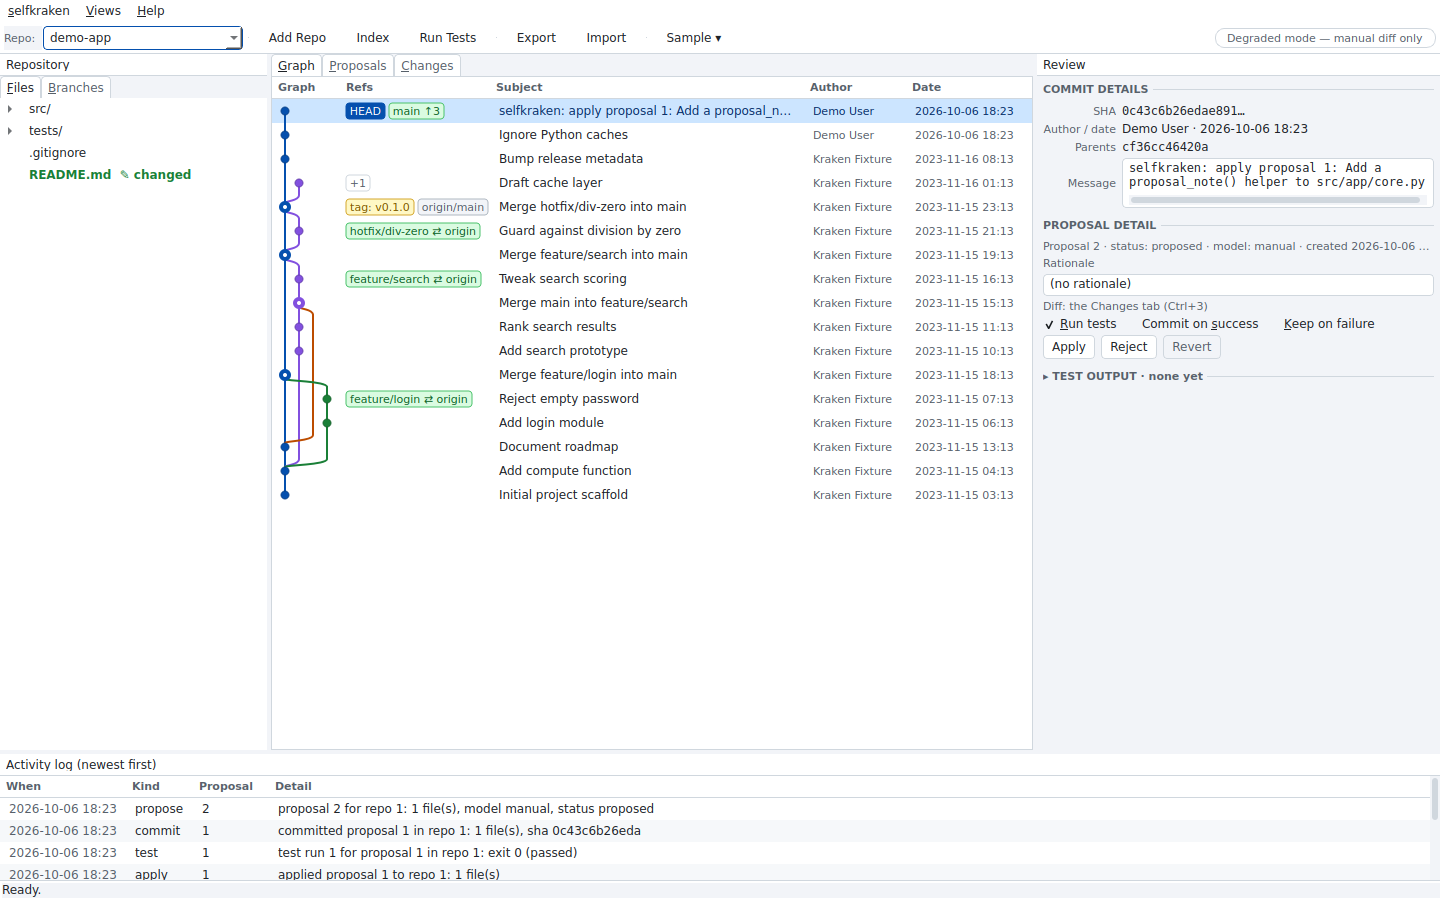
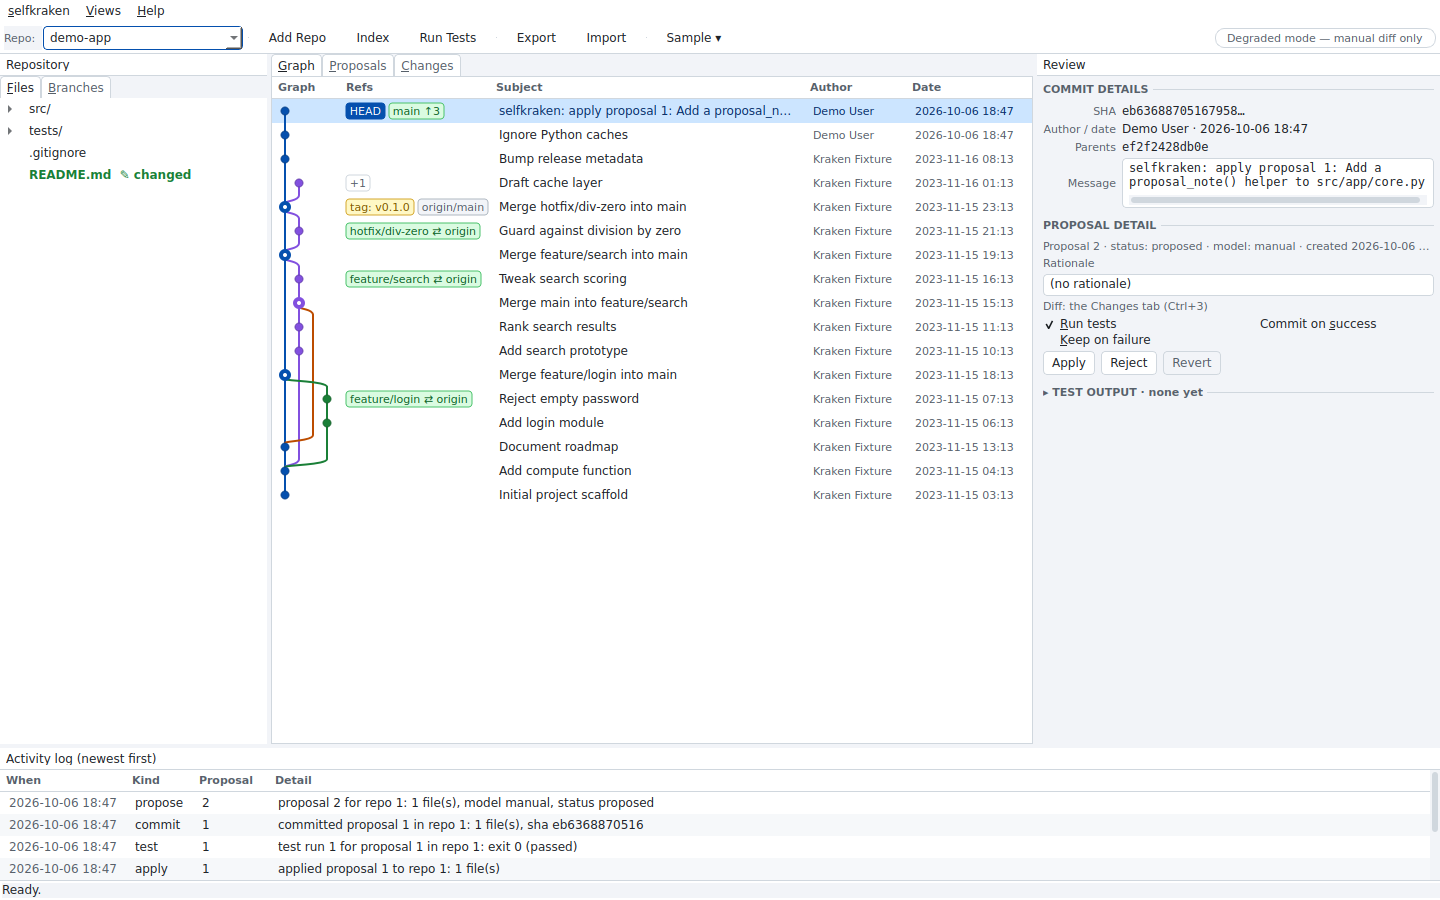
gui: review pane fits its dock, activity log never shows a half row

diff --git a/selfkraken/gui/app.py b/selfkraken/gui/app.py
@@ -118,6 +118,7 @@ from selfkraken.gui.theme import (
     SECTION_HEADER_HEIGHT,
     SPLITTER_HIT,
     SPACE_12,
+    SPACE_2,
     SPACE_4,
     SPACE_6,
     SPACE_8,
@@ -1290,9 +1291,13 @@ class MainWindow(QMainWindow):
         )
         diff_pointer.setAccessibleName("Where the diff is shown")
 
-        option_row = QHBoxLayout()
-        option_row.setContentsMargins(MARGIN_NESTED, MARGIN_NESTED, MARGIN_NESTED, MARGIN_NESTED)
-        option_row.setSpacing(SPACE_8)
+        # Two columns, not one row: three checkboxes side by side need ~336px,
+        # which is wider than the review dock at 1024px and clipped "Keep on
+        # failure" to "Keep on failur".  Two columns stay compact and always fit.
+        option_grid = QGridLayout()
+        option_grid.setContentsMargins(MARGIN_NESTED, MARGIN_NESTED, MARGIN_NESTED, MARGIN_NESTED)
+        option_grid.setHorizontalSpacing(SPACE_8)
+        option_grid.setVerticalSpacing(SPACE_2)
         self.tests_check = QCheckBox("&Run tests")
         self.tests_check.setChecked(True)
         self.tests_check.setToolTip(
@@ -1307,10 +1312,13 @@ class MainWindow(QMainWindow):
             "Leave the change in the working tree even when tests fail "
             "(no automatic rollback)"
         )
-        for box in (self.tests_check, self.commit_check, self.keep_check):
+        for position, box in enumerate(
+            (self.tests_check, self.commit_check, self.keep_check)
+        ):
             box.setAccessibleName(box.text().replace("&", ""))
-            option_row.addWidget(box)
-        option_row.addStretch(1)
+            option_grid.addWidget(box, position // 2, position % 2)
+        option_grid.setColumnStretch(0, 1)
+        option_grid.setColumnStretch(1, 1)
 
         button_row = QHBoxLayout()
         button_row.setContentsMargins(MARGIN_NESTED, MARGIN_NESTED, MARGIN_NESTED, MARGIN_NESTED)
@@ -1343,7 +1351,7 @@ class MainWindow(QMainWindow):
         detail_layout.addWidget(rationale_caption)
         detail_layout.addWidget(self.rationale_edit)
         detail_layout.addWidget(diff_pointer)
-        detail_layout.addLayout(option_row)
+        detail_layout.addLayout(option_grid)
         detail_layout.addLayout(button_row)
         # no stretch inside: with the diff next door this section is exactly as
         # tall as its own content, so no gap opens between meta and rationale
@@ -1714,29 +1722,43 @@ class MainWindow(QMainWindow):
     def _fit_log_dock(self, force: bool = False) -> None:
         """No dead band and no half row: the dock is exactly N whole rows tall.
 
-        The height is title + header + chrome + ``rows * row_height``, so the
-        last visible row always ends at the dock's edge — a capped pixel height
-        used to cut the bottom row in half.  Capped at ACTIVITY_LOG_HEIGHT by
-        dropping *whole* rows, floored at one row (then it scrolls), and left
-        alone once the user has dragged the splitter themselves.  ``force`` is
-        the one shot right after the window is mapped: before that the dock
-        reports its old height and a fit computed then never gets applied.
+        The overhead (dock title, frame, margins, the table's own header) is
+        **measured** from the widgets — ``dock.height() - viewport.height()`` is
+        every pixel that is not a log row — because the token-based estimate was
+        ~15px too generous and left the bottom row sliced in half.  With the real
+        overhead the height is always ``overhead + rows * row_height``, so the
+        last visible row ends exactly at the dock's edge; the cap drops *whole*
+        rows, never a few pixels of one, and the scrollbar steps by a row.
+
+        Left alone once the user has dragged the splitter themselves; ``force``
+        is the one shot right after the window is mapped, before which the dock
+        reports a height that was never laid out.
         """
-        row_height = self.log_table.verticalHeader().defaultSectionSize()
-        header = self.log_table.horizontalHeader().sizeHint().height()
-        chrome = header + 2 * MARGIN_PANEL + DOCK_TITLE_HEIGHT + SPLITTER_HIT
+        table = self.log_table
+        row_height = table.verticalHeader().defaultSectionSize()
+        if row_height <= 0:  # pragma: no cover - defensive
+            return
+        header = table.horizontalHeader().sizeHint().height()
+        dock_height = self.bottom_dock.height()
+        viewport_height = table.viewport().height()
+        if dock_height > 0 and viewport_height > 0 and dock_height > viewport_height:
+            overhead = dock_height - viewport_height
+        else:
+            # not laid out yet: start from the design tokens, the forced call
+            # after showEvent replaces this with the measured number
+            overhead = header + 2 * MARGIN_PANEL + DOCK_TITLE_HEIGHT + SPLITTER_HIT
         available = self.log_model.rowCount()
         # never taller than the log itself: three empty rows under a one-line log
         # is exactly the dead band this dock is supposed to avoid
         rows = min(max(available, 1), LOG_DOCK_MAX_ROWS)
-        height = chrome + rows * row_height
+        height = overhead + rows * row_height
         while rows > 1 and height > ACTIVITY_LOG_HEIGHT:
             rows -= 1  # give back a full row, never a few pixels of one
-            height = chrome + rows * row_height
-        height = max(height, chrome + row_height)
+            height = overhead + rows * row_height
+        height = max(height, overhead + row_height)
         untouched = (
             self._log_dock_height is None
-            or self.bottom_dock.height() in (self._log_dock_height, 0)
+            or dock_height in (self._log_dock_height, 0)
         )
         if force or untouched:
             self.resizeDocks([self.bottom_dock], [height], Qt.Orientation.Vertical)

diff --git a/tests/test_gui.py b/tests/test_gui.py
@@ -188,6 +188,105 @@ def test_window_geometry_is_remembered_in_the_data_dir(
         second.close()
 
 
+def test_review_pane_children_never_overflow_their_dock(
+    qapp, gui_settings, no_dialogs, git_repo, make_patch, sources, test_command
+) -> None:
+    """Nothing in the review column may be wider than the dock that holds it.
+
+    The apply options once sat in one row needing more width than the dock had,
+    so "Keep on failure" painted as "Keep on failur" and the commit message box
+    ran under the border.  A dock that scrolls sideways is not a fix — the
+    content has to fit the dock it is given.
+    """
+    from PySide6.QtWidgets import QApplication, QWidget
+
+    from selfkraken.gui.app import MainWindow, apply_theme
+    from selfkraken.gui.theme import DARK
+
+    previous = qapp.styleSheet()
+    apply_theme(qapp, DARK)
+    window = MainWindow(run_jobs_inline=True, theme="dark", settings=gui_settings)
+    try:
+        window.add_repo(git_repo, test_command)
+        window.index_repo()
+        window.submit_proposal(
+            "Add a sub() function with a test",
+            diff_text=make_patch(
+                git_repo,
+                {
+                    "calc.py": sources["calc_with_sub"],
+                    "test_calc.py": sources["test_calc_with_sub"],
+                },
+            ),
+        )
+        window.graph_view.select_row(0)
+        window.tests_toggle.setExpanded(True)
+        for width in (1024, 1280):
+            window.resize(width, 700)
+            window.show()
+            QApplication.processEvents()
+            scroll = window.right_scroll
+            viewport_width = scroll.viewport().width()
+            inner = scroll.widget()
+            assert inner.width() <= viewport_width + 1, (
+                f"{width}px: review content is {inner.width()}px wide in a "
+                f"{viewport_width}px dock"
+            )
+            offenders = []
+            for child in inner.findChildren(QWidget):
+                if not child.isVisible() or child.height() <= 0:
+                    continue
+                right = child.mapTo(scroll, child.rect().topRight()).x()
+                if right > viewport_width + 1:
+                    offenders.append(
+                        f"{child.metaObject().className}#{child.objectName()} "
+                        f"right={right} > {viewport_width}"
+                    )
+            assert not offenders, (
+                f"{width}px: review children past the dock edge:\n  "
+                + "\n  ".join(offenders)
+            )
+    finally:
+        window.close()
+        qapp.setStyleSheet(previous)
+
+
+def test_activity_log_dock_snaps_to_whole_rows(qapp, gui_settings, no_dialogs) -> None:
+    """A long log never shows a half row: the viewport is a whole multiple of it.
+
+    The dock's non-row pixels (title, frame, margins, the table header) are not a
+    round number, so the height has to be measured and snapped, not estimated.
+    """
+    from PySide6.QtWidgets import QApplication
+
+    from selfkraken.gui.app import MainWindow
+
+    window = MainWindow(run_jobs_inline=True, theme="dark", settings=gui_settings)
+    try:
+        for index in range(12):  # more rows than the dock will ever show
+            window.store.record_change("index", f"synthetic log line {index}")
+        window.refresh_log()
+        window.resize(1280, 800)
+        window.show()
+        QApplication.processEvents()
+        window._fit_log_dock(force=True)
+        QApplication.processEvents()
+
+        table = window.log_table
+        row_height = table.verticalHeader().defaultSectionSize()
+        viewport_height = table.viewport().height()
+        assert window.log_model.rowCount() >= 8
+        assert viewport_height % row_height == 0, (
+            f"viewport {viewport_height}px is not whole rows of {row_height}px "
+            f"({viewport_height / row_height:.2f} rows — the last one is cut)"
+        )
+        last = table.rowAt(viewport_height - 1)
+        assert last >= 0
+        assert table.visualRect(table.model().index(last, 0)).bottom() <= viewport_height
+    finally:
+        window.close()
+
+
 def test_graph_column_is_never_narrower_than_its_header(qapp, git_repo) -> None:
     """One lane used to elide the "Graph" header to "ra|"."""
     from selfkraken.gui.graph_widget import GraphView, graph_column_minimum
